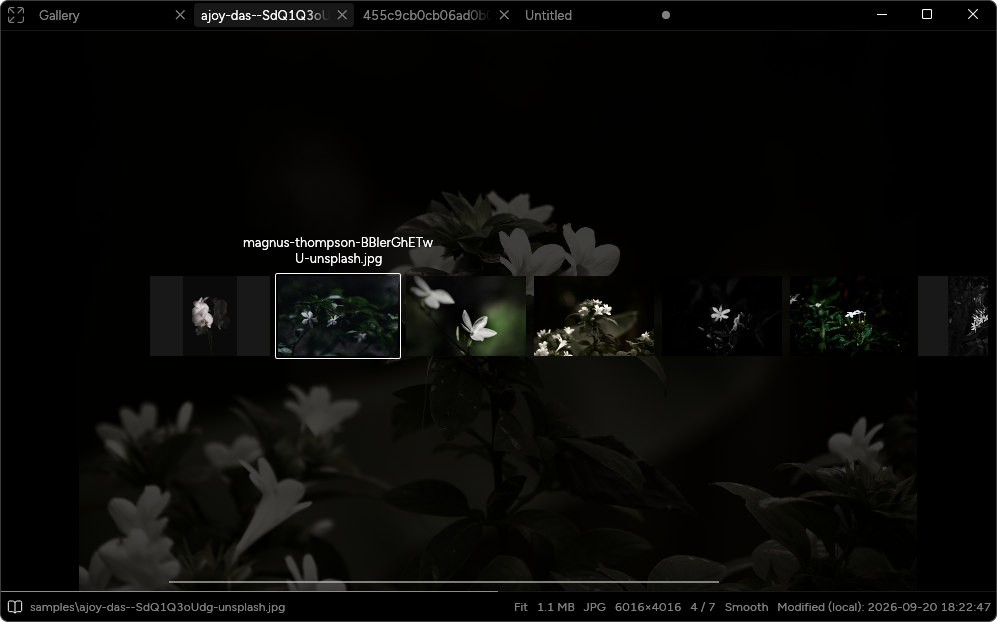
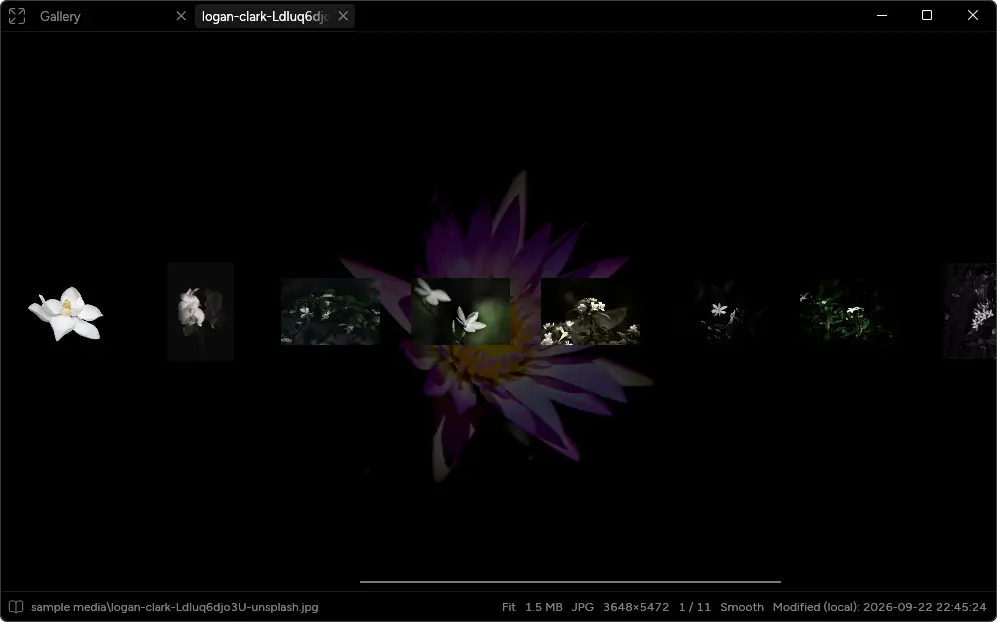
update images and button styles

diff --git a/styles/globals.css b/styles/globals.css
@@ -184,7 +184,6 @@ select {
   display: flex;
   align-items: center;
   justify-content: space-between;
-  padding-inline: 12px;
 }
 .site-logo {
   width: 32px;
@@ -204,53 +203,42 @@ select {
   align-items: center;
   justify-content: center;
   gap: var(--space-3);
-  min-height: 54px;
-  padding: 14px 24px;
+  min-height: 42px;
+  padding: 10px 15px;
   background: var(--color-theme-card-hex);
-  border: 1px solid var(--color-theme-border-02);
+  border: 1px solid #767676;
   color: var(--color-theme-fg);
-  font-size: var(--text-sm);
+  font-size: var(--text-xs);
+  font-weight: 500;
   line-height: 1.5;
 }
-.button:hover {
-  background: #1c1c1c;
-  border-color: #4c4c4c;
+.button.app-download:hover {
+  background: #949494;
+  border-color: #949494;
+}
+.button.github-star {
+  border: 1px solid var(--color-theme-border-02);
+  background: var(--color-theme-bg);
+}
+.button.github-star:hover {
+  border-color: #949494;
+  color: #949494;
 }
 .button[aria-disabled="true"] {
   cursor: progress;
   color: var(--color-theme-fg-03);
 }
 .button-sm {
-  min-height: 32px;
-  padding: 5px 15px;
+  min-height: 30px;
+  padding: 4px 12px;
   font-size: var(--text-xs);
 }
-.download-control {
-  position: relative;
-}
-.download-status.is-error {
-  max-width: 420px;
-  margin-top: 12px;
+.download-status {
   color: var(--color-theme-fg-02);
-  font-size: var(--text-xs);
 }
 .download-status a {
   text-decoration: underline;
   text-underline-offset: 3px;
-}
-.download-status .icon {
-  width: 13px;
-  height: 13px;
-}
-.download-control-compact .download-status.is-error {
-  position: absolute;
-  right: 0;
-  top: calc(100% + 12px);
-  width: min(330px, calc(100vw - 48px));
-  background: #141414;
-  border: 1px solid #444;
-  padding: 16px;
-  z-index: 5;
 }
 
 /* Hero and the intentionally limited, silent app preview. */
@@ -282,10 +270,19 @@ h1 {
   font-size: 11px;
   color: var(--color-theme-fg-04);
 }
+.hero-actions {
+  display: flex;
+  align-items: center;
+  gap: 15px;
+}
+.hero-actions .button {
+  flex-shrink: 0;
+  white-space: nowrap;
+}
 .hero-mockup {
   width: 100%;
   height: var(--demo-height, auto);
-  margin-top: var(--space-5);
+  margin-top: var(--space-4);
 }
 .demo-window {
   width: var(--max-width-container);
@@ -344,10 +341,10 @@ h1 {
 }
 .demo-tab[aria-selected="true"] {
   color: #eee;
-  background: #202020;
+  background: #181818;
 }
 .demo-tab:hover {
-  background: #282828;
+  background: #2c2c2c;
   color: #eee;
 }
 .demo-tab:focus-visible {
@@ -799,7 +796,7 @@ h2 {
   top: 50%;
   bottom: auto;
   height: 60%;
-  aspect-ratio: 833 / 374;
+  aspect-ratio: 518 / 285;
   transform: translateY(-50%);
   mask-image: linear-gradient(to bottom, black 30%, transparent 90%);
 }
@@ -829,7 +826,6 @@ h2 {
   transform-origin: top left;
   background-color: #000;
   background-repeat: no-repeat;
-  filter: brightness(var(--frame-brightness));
   box-shadow: 0 10px 50px #0008;
   border: 1px solid var(--color-theme-border-02);
   opacity: var(--frame-opacity);
@@ -1114,14 +1110,17 @@ html[lang="ja"] p {
     margin-top: 28px;
   }
   .button {
-    min-height: 50px;
-    padding-inline: 18px;
-    font-size: 12px;
+    min-height: 42px;
+    padding: 10px 9px;
+    font-size: 11px;
   }
   .button-sm {
-    min-height: 32px;
-    padding: 5px 12px;
+    min-height: 30px;
+    padding: 4px 10px;
     font-size: 11px;
+  }
+  .hero-actions {
+    gap: 8px;
   }
   .hero-mockup {
     margin-top: 36px;
@@ -1162,6 +1161,9 @@ html[lang="ja"] p {
   .feature-media {
     --feature-padding: var(--space-3);
     aspect-ratio: 1.1;
+  }
+  .feature-media-tabs .feature-artwork {
+    height: 80%;
   }
   .closing-grid {
     grid-template-columns: minmax(0, 1fr);

diff --git a/src/components/DownloadLink.jsx b/src/components/DownloadLink.jsx
@@ -1,16 +1,13 @@
-import { useState } from "react";
 import { getInstaller, releaseFallback } from "../site/download.mjs";
-import { Icon } from "./Icons";
 
-export function DownloadLink({ content, compact = false }) {
-  const [status, setStatus] = useState("idle");
+export function DownloadLink({ content, compact = false, status, onStatusChange }) {
 
   async function download(event) {
     // Keep the release-page fallback available for ordinary modified link clicks.
     if (event.metaKey || event.ctrlKey || event.shiftKey || event.altKey) return;
     event.preventDefault();
     if (status === "loading") return;
-    setStatus("loading");
+    onStatusChange("loading");
     try {
       const url = await getInstaller();
       const link = document.createElement("a");
@@ -19,22 +16,24 @@ export function DownloadLink({ content, compact = false }) {
       document.body.append(link);
       link.click();
       link.remove();
-      setStatus("success");
+      onStatusChange("success");
     } catch {
-      setStatus("error");
+      onStatusChange("error");
     }
   }
 
   return (
-    <div className={`download-control${compact ? " download-control-compact" : ""}`}>
-      <a className={`button app-download${compact ? " button-sm" : ""}`} href={releaseFallback} onClick={download} aria-disabled={status === "loading"} aria-busy={status === "loading"}>
-        {status === "loading" ? content.downloading : compact ? content.download : content.downloadWindows}
-        {!compact && <Icon name="download" />}
-      </a>
-      <div className={`download-status${status === "error" ? " is-error" : ""}`} role="status">
-        {status === "success" && <span className="sr-only">{content.downloadStarted}</span>}
-        {status === "error" && <>{content.downloadError} <a href={releaseFallback} target="_blank" rel="noreferrer">{content.releases} <Icon name="arrow" /></a></>}
-      </div>
-    </div>
+    <a className={`button app-download${compact ? " button-sm" : ""}`} href={releaseFallback} onClick={download} aria-disabled={status === "loading"} aria-busy={status === "loading"}>
+      {compact ? content.download : content.downloadWindows}
+    </a>
   );
+}
+
+export function DownloadStatus({ content, status }) {
+  return <span className={`download-status${status === "error" ? " is-error" : ""}`} role="status" aria-atomic="true">
+    {status !== "idle" && <span aria-hidden="true"> · </span>}
+    {status === "loading" && content.downloading}
+    {status === "success" && content.downloadStarted}
+    {status === "error" && <>{content.downloadError} <a href={releaseFallback} target="_blank" rel="noreferrer">{content.releases}</a></>}
+  </span>;
 }

diff --git a/src/components/LandingPage.jsx b/src/components/LandingPage.jsx
@@ -1,14 +1,16 @@
 import Head from "next/head";
+import { useState } from "react";
 import { asset, localePath, repository, siteUrl } from "../site/config.mjs";
 import { languages, locales } from "../site/locales";
 import { Logo, Icon } from "./Icons";
-import { DownloadLink } from "./DownloadLink";
+import { DownloadLink, DownloadStatus } from "./DownloadLink";
 import { HeroDemo } from "./HeroDemo";
 import { FeatureShowcase } from "./FeatureShowcase";
 import { LanguageSwitcher } from "./LanguageSwitcher";
 import { SourceArtwork } from "./SourceArtwork";
 
 export function LandingPage({ locale = "en" }) {
+  const [downloadStatus, setDownloadStatus] = useState("idle");
   const content = locales[locale] ?? locales.en;
   const canonical = `${siteUrl}/${locale === "en" ? "" : `${locale}/`}`;
   const structuredData = {
@@ -65,7 +67,7 @@ export function LandingPage({ locale = "en" }) {
             <a className="site-logo" href={localePath(locale)} aria-label={content.home}>
               <Logo />
             </a>
-            <DownloadLink content={content} compact />
+            <DownloadLink content={content} compact status={downloadStatus} onStatusChange={setDownloadStatus} />
           </div>
         </header>
         <main id="main">
@@ -78,8 +80,11 @@ export function LandingPage({ locale = "en" }) {
                 </h1>
                 <p>{content.heroDescription}</p>
                 <div className="hero-buttons">
-                  <DownloadLink content={content} />
-                  <span className="platform-note">{content.platform}</span>
+                  <div className="hero-actions">
+                    <DownloadLink content={content} status={downloadStatus} onStatusChange={setDownloadStatus} />
+                    <a className="button github-star" href={repository} target="_blank" rel="noreferrer">Star on GitHub</a>
+                  </div>
+                  <div className="platform-note">{content.platform}<DownloadStatus content={content} status={downloadStatus} /></div>
                 </div>
               </div>
               <HeroDemo content={content.demo} />

diff --git a/src/site/locales.js b/src/site/locales.js
@@ -28,7 +28,7 @@ export const locales = {
         id: "workspace",
         title: "All your media, together",
         description: "Transition between images, video, and audio inside a single cohesive window.",
-        images: ["workspace.webp", "video.webp", "audio.webp"],
+        images: ["image2.webp", "video.webp", "audio.webp"],
         alt: "The image, video, and audio viewers in towavue",
       },
       {
@@ -59,8 +59,8 @@ export const locales = {
         title: "Find your next frame",
         description:
           "Browse in Explorer order, jump through thumbnail filmstrips, or pick up a recent file from the gallery.",
-        images: ["filmstrip.webp", "gallery.webp"],
-        alt: "The thumbnail filmstrip and recent-file gallery in towavue",
+        images: ["gallery.webp"],
+        alt: "The recent-file gallery in towavue",
       },
     ],
     closingTitle: "Make yourself at home",
@@ -152,7 +152,7 @@ export const locales = {
         id: "workspace",
         title: "必要なのは、これだけです",
         description: "画像、動画、音声を単一のウィンドウ内でなめらかに行き来できます。",
-        images: ["workspace.webp", "video.webp", "audio.webp"],
+        images: ["image2.webp", "video.webp", "audio.webp"],
         alt: "towavueの画像・動画・音声ビューアー",
       },
       {
@@ -185,8 +185,8 @@ export const locales = {
         title: "次の一枚が、すぐ見つかる",
         description:
           "エクスプローラー順の閲覧、サムネイルのフィルムストリップ表示、ギャラリーからのアクセスなど、直感的なファイル探索が可能です。",
-        images: ["filmstrip.webp", "gallery.webp"],
-        alt: "画像のフィルムストリップと最近のファイルを表示したギャラリー",
+        images: ["gallery.webp"],
+        alt: "最近のファイルを表示したtowavueのギャラリー",
       },
     ],
     closingTitle: "いつもの場所に、したくなる",

diff --git a/src/components/SpeedFrames.jsx b/src/components/SpeedFrames.jsx
@@ -34,7 +34,6 @@ export function SpeedFrames({ label }) {
           style={{
             "--frame-position": `${(index / (layers - 1)) * (100 / scaleY)}%`,
             "--frame-order": layers - 1 - index,
-            "--frame-brightness": 1 - (index / (layers - 1)) * 0.75,
             "--frame-opacity": 1 - (index / (layers - 1)) * 0.5,
             zIndex: layers - index,
           }}

diff --git a/README.md b/README.md
@@ -58,7 +58,7 @@ The preview supports video, image, and audio tabs in that order, nine-image navi
 
 The header stays at the top on a translucent black background. Inset vertical rules sit behind the content and remain faintly visible through the header. Screenshot images preserve the source PNG alpha channel in lossless WebP, with no added borders or corner decoration. Demo tabs are rounded and their close/caption SVG paths come from monapad. Compact close and transport icons respond with white hover color only. The idle seek bar is a one-pixel track; hover animates its thickness and thumb scale and overlays a translucent preview up to the pointer, without seeking until an actual click or drag. Status metadata uses the supplied originals for images, the web video for video, and fictional audio metadata. Transport/reading artwork comes from Lucide; see [attribution and license](notices/lucide.md).
 
-Both download buttons fetch the latest public release at click time and select `towavue-*-windows-x64-setup.exe`. They initiate a browser download without replacing the LP. API errors, timeouts, and missing installers display a retryable inline message and a Releases fallback. The ordinary link remains useful without JavaScript.
+Both download buttons fetch the latest public release at click time and select `towavue-*-windows-x64-setup.exe`. They initiate a browser download without replacing the LP. Button labels stay fixed in every state; shared progress, success, and error messages appear after the hero platform note, including a Releases fallback on failure. The smaller hero download button has no icon and sits beside a `Star on GitHub` link to the repository. The ordinary download link remains useful without JavaScript.
 
 Desktop and other non-iOS browsers scrub the native video directly. Only iOS/iPadOS paused video scrubbing displays independently decoded 960px-wide stills sampled at 12 fps, so it also works when a mobile browser does not repaint paused video seeks. It keeps the previous image until the next one decodes, and retains that overlay until playback presents a video frame. Native paused timeupdate events do not override the requested position. Scroll deltas advance only the paused video while the demo is visible; manual seeking establishes a new starting position. Scroll seeking pauses during dragging or playback and respects reduced-motion preferences. Image hover previews use small thumbnails, and video previews use a single sprite sampled every half second without seeking the player.
 
